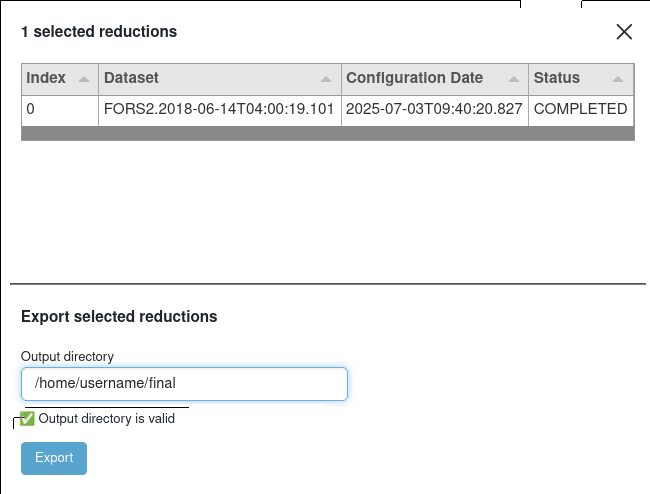
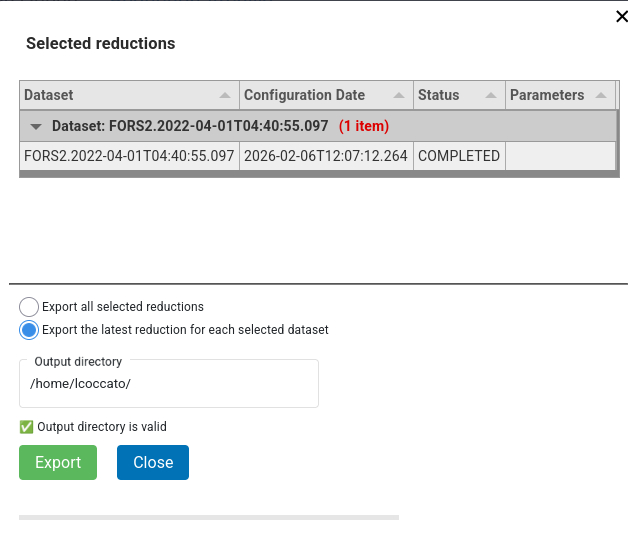
Export

diff --git a/source/edpsgui/gui.md b/source/edpsgui/gui.md
@@ -105,7 +105,32 @@ Go to the EDPS-GUI documentation [index](../edpsgui/index)
 <a name="reduction_archive"></a>
 ## The **Reduction Archive** tab.
 
-t.b.d.
+All the products (final and intermediate) of all reduced configuration for all datasets are saved into
+the EDPS_data directory. In addition, EDPS offers the possibility to "archive" a desired reduction (e.g., the one
+that gives the best results) by "exporting" only the final reduction products into another location.
+
+Select the desired reduced configurations and press the "Archive button". This configuration disappears from the
+Reduction Queue and appear in the tab "Reduction Archive".
+
+The content of the "Reduction Archive", e.g. the list of archived reductions, can be inspected by pressing the
+**Reduction Archive" tab.
+
+   ````{figure} figures/archive-dataset.jpg
+   :alt: archive
+   :name: archive
+   ```` 
+
+Each configuration and its jobs can be inspected, unarchived and eventually deleted.
+In order to copy the final products into a desired location, press the Export button. A window will appear
+allowing 
+ - to select all or just the last configuration for the selected datasets  
+ - to specify a directory where to save the files. A check is done 
+
+Press **Export** to save the files.. 
+The types of files to copy depend on each workflow. Typically, only most important files of the 
+scientific tasks are saved. Other files can be found in the EDPS_data directory.
+The operation can take several minutes, depending on the sizes of the files.
+The default structure is `<dataset_name>/<reduction_time_stamp>/<category>.fits`.
 
 ---
 Go to [top](#top)

diff --git a/source/edpsgui/index.rst b/source/edpsgui/index.rst
@@ -13,7 +13,6 @@ EDPS-GUI complete manual
    intro.md
    gui.md
    reduction_configuration.md
-   #final_products.md
    faq.md
    
 ------------
